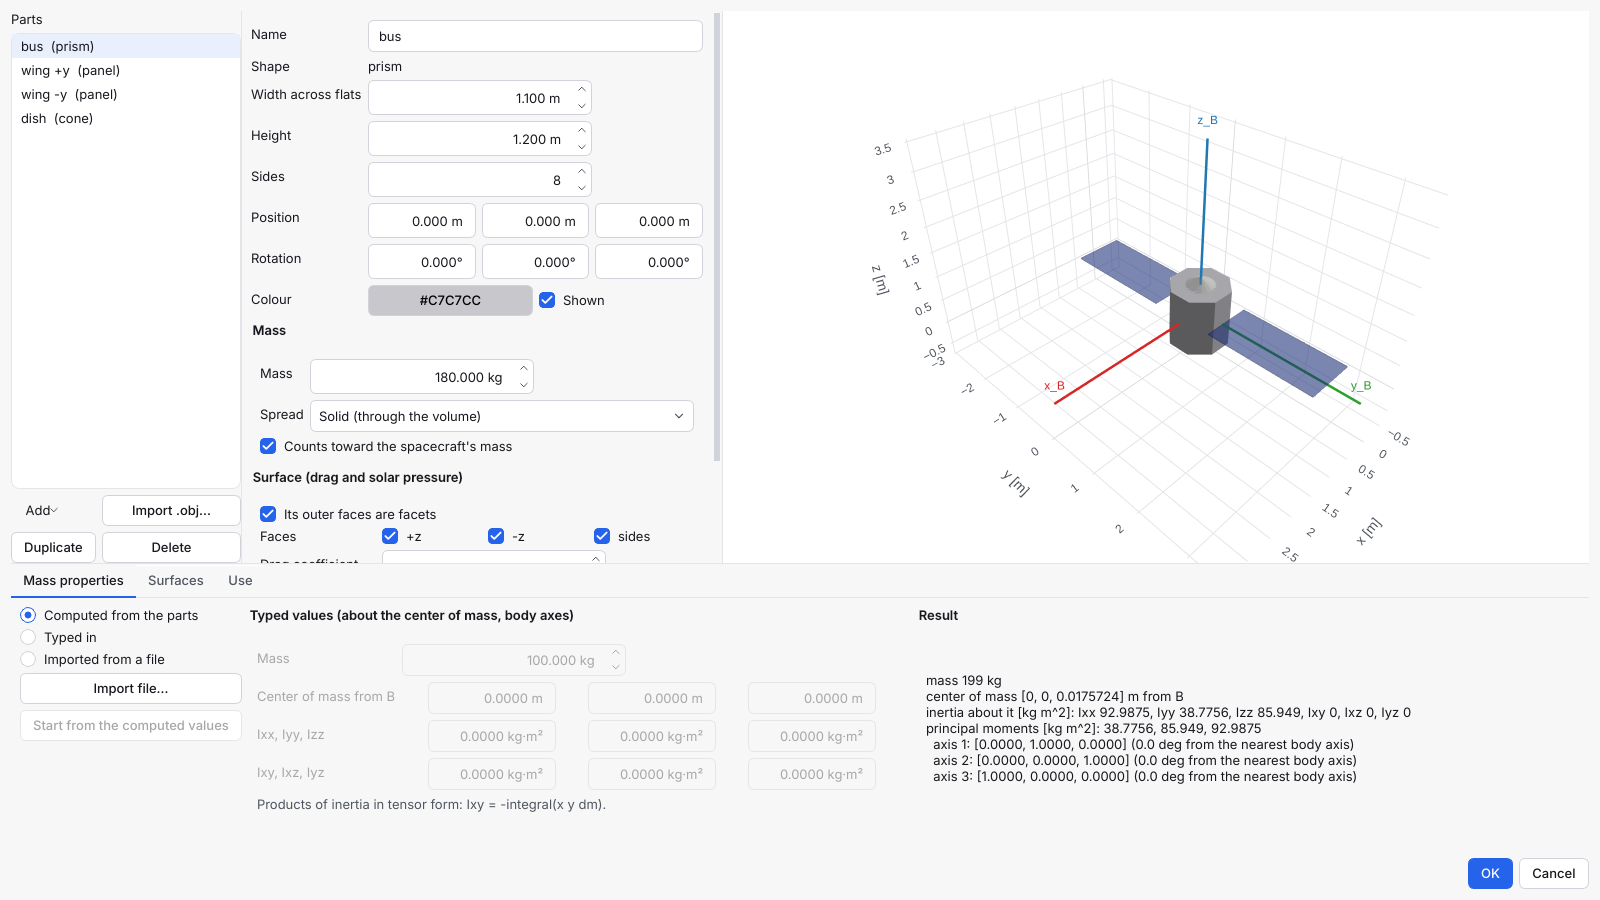
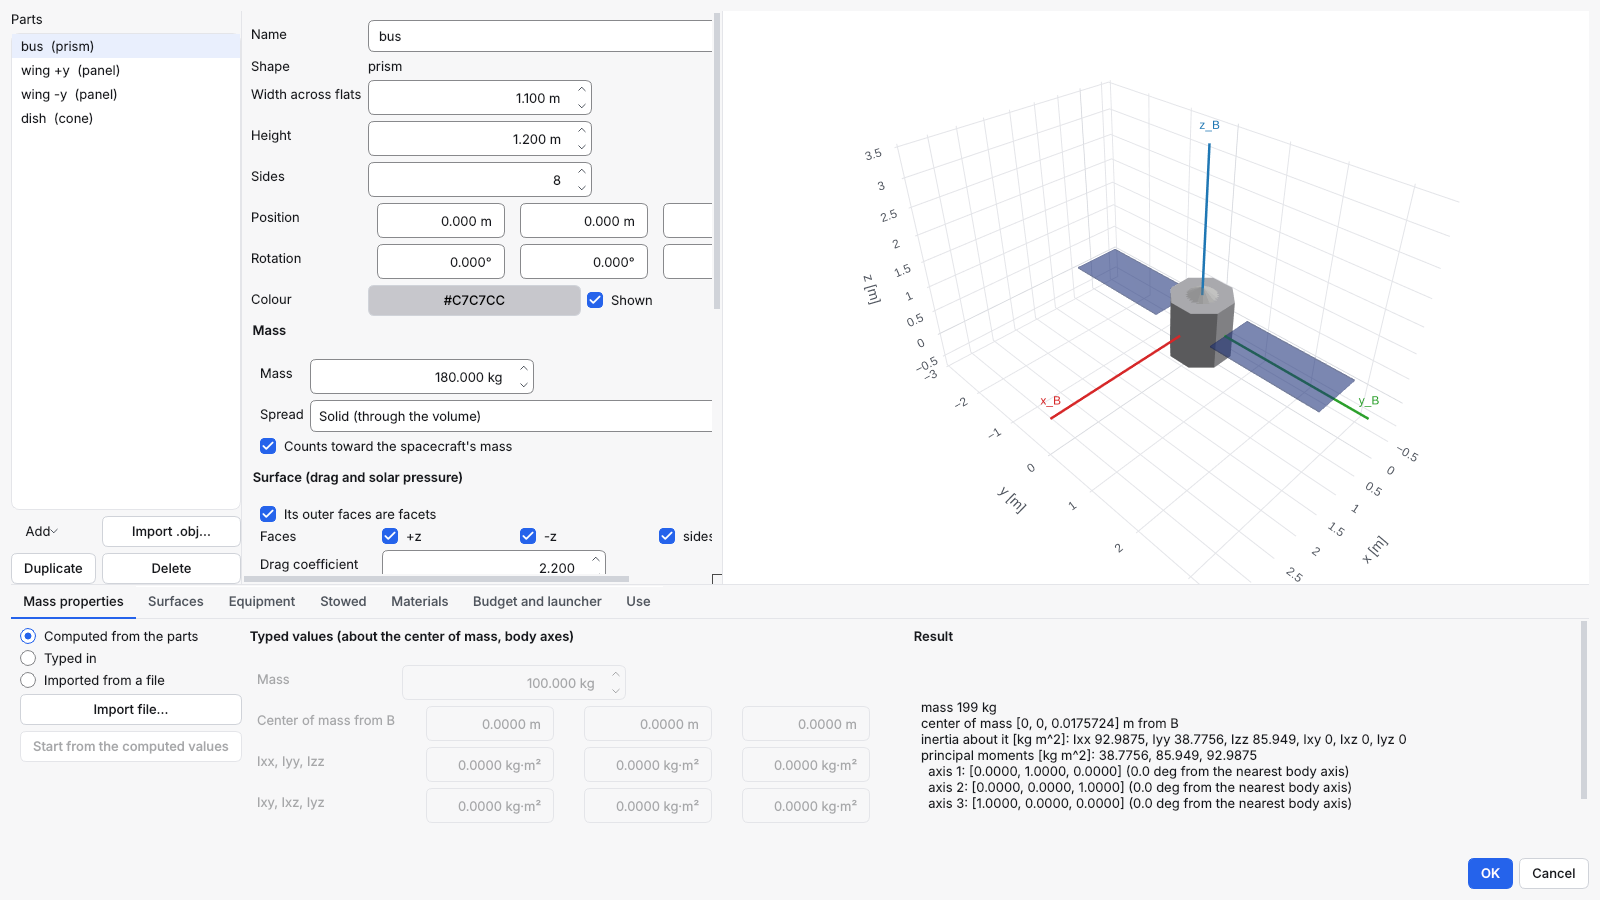
docs: the rest of the model in the 3D model editor (decision D-25)
The 3D model guide, the user manual and its help copy, the limitations
page, the CHANGELOG, the decision log and TEST_CHANGES; the editor's
screenshot re-captured with its seven tabs and the 3D view at full height.

Claude-Session: https://claude.ai/code/session_01Gh1F6B6T8MimrHtWajoX7f

diff --git a/SpaceMissionStudio/docs/developer/model-analyses-decisions.md b/SpaceMissionStudio/docs/developer/model-analyses-decisions.md
@@ -397,3 +397,32 @@ A review of the branch (PR #209) found seven points.
 - **Alternative:** a mount group in each device's own form (the sensor
   and actuator editors). It was not taken: a mount is about the model's
   geometry, and needs the parts and the view to set it well.
+
+## D-25: The rest of the model in the 3D model editor
+
+- **Chosen** (`gui/model_property_tabs.py`):
+  - **The part form** gives each part:
+    - a material (the library's, then the model's own);
+    - a maturity category of the mass budget's policy;
+    - a subsystem;
+    - per face, a material and reflection coefficients in place of
+      the part's. A blank cell keeps the part's, and a face with
+      nothing of its own has no entry.
+  - **Materials** edits the model's own materials.
+    - The erosion yield is shown in units of 1e-24 cm^3/atom, so a
+      typical value reads 3.0 rather than a long string of zeros.
+    - A rename follows the parts and faces that use the material.
+    - A material in use cannot be deleted, and a library name is
+      refused.
+  - **Budget and launcher** edits the mass budget (policy, system
+    margin, mass limit and its source) and the launcher envelope (a
+    library envelope, or a custom cylinder, box or profile, with its
+    plane, axis, limits and source). Each is a checkable group:
+    unticked, the model has none.
+- **Fixed with it:** the bottom tabs are now in scroll areas. Since
+  D-24 added the Equipment tab, the tallest tab's form squeezed the
+  parts list, the part form and the 3D view to about 150 px at
+  1600 x 900. The `model_editor.png` screenshot is re-captured with the
+  seven tabs.
+- **Result:** nothing in a model needs the JSON view any more. The
+  limitations page keeps only the empty launcher library (D-11).

diff --git a/SpaceMissionStudio/docs/user-manual/3d-model.md b/SpaceMissionStudio/docs/user-manual/3d-model.md
@@ -200,9 +200,22 @@ In the 3D model editor:
   face properties); a part that carries equipment cannot be deleted until
   the equipment is moved.
 
-Materials, face properties, the mass budget's policy and the launcher
-envelope are set in the scenario file (the Scenario's JSON view); the
-analyses of a run are chosen in the spacecraft editor's **3D model**
+- The part form also gives each part a **material** (the library's
+  sourced materials, or the model's own), a **maturity** category and a
+  **subsystem** for the mass budget, and, under **Per face**, a material
+  and reflection coefficients for one face in place of the part's (blank
+  keeps the part's).
+- **Materials** holds the model's own materials, with their values and
+  where they come from. Renaming one renames it in the parts and faces
+  that use it; one in use cannot be deleted.
+- **Budget and launcher** sets the mass budget (the margin policy, a
+  system margin in place of the policy's, the mass limit and its source)
+  and the launcher envelope the stowed configuration is checked against:
+  a cylinder, a box or a profile of heights and radii, its separation
+  plane and axis, and its mass and centre-of-mass limits with their
+  source.
+
+The analyses of a run are chosen in the spacecraft editor's **3D model**
 page.
 
 ---

diff --git a/SpaceMissionStudio/docs/ui/TEST_CHANGES.md b/SpaceMissionStudio/docs/ui/TEST_CHANGES.md
@@ -1704,3 +1704,19 @@ golden or output file changed.
   - a part rename that follows its references, and a guarded delete;
   - the spacecraft editor keeping the RF antenna's mount and taking the
     devices' mounts.
+
+## The rest of the model in the 3D model editor (2026-11-04)
+
+Branch `feature/model-editor-properties`. No test removed or changed, no
+golden or output file changed; `docs/images/model_editor.png`
+re-captured (seven tabs, the 3D view at its full height).
+
+- Added to `tests/gui/test_model_editor.py`, four tests:
+  - the part form's material, maturity and subsystem;
+  - the model's own materials: values, the erosion yield's unit, a
+    rename that follows its users, a delete refused while in use, and
+    a library name refused;
+  - a face's own properties written, with comma decimals, a value out
+    of range refused, and cleared;
+  - the mass budget and a box and a profile launcher envelope edited
+    and validated, then taken away.

diff --git a/SpaceMissionStudio/CHANGELOG.md b/SpaceMissionStudio/CHANGELOG.md
@@ -48,6 +48,12 @@ the same results as in 2.0.0.
   Renaming a part now renames it in the mounts, stowed poses and face
   properties; the spacecraft editor no longer drops the RF antenna's
   mount.
+- **The rest of the model in the 3D model editor:** a part's material,
+  maturity and subsystem and each face's own properties in the part
+  form; the model's own materials (Materials tab); the mass budget and
+  the launcher envelope (Budget and launcher tab). Nothing of the model
+  needs the JSON view any more. The bottom tabs scroll, so the 3D view
+  keeps its height.
 - **Template 32**, the 300 kg small satellite with its equipment mounted,
   showing a star tracker and a nozzle plume that see an array.
 - Parameters `analyses.observer_sun_depression_deg` and `reentry.*`, with

diff --git a/SpaceMissionStudio/USER_MANUAL.md b/SpaceMissionStudio/USER_MANUAL.md
@@ -849,7 +849,10 @@ A model problem in **Problems**, or the "3D model" badge in **Explain**,
 opens the editor for that spacecraft too. Its **Equipment** tab mounts
 items and the spacecraft's devices on the model, drawn in the view with
 their field-of-view and plume cones, and its **Stowed** tab gives parts
-their pose folded for launch and shows either configuration. Step by step:
+their pose folded for launch and shows either configuration. Its
+**Materials** and **Budget and launcher** tabs, and the part form's
+material, maturity and per-face properties, edit the rest of the model's
+data. Step by step:
 [Build a 3D model](docs/user-manual/3d-model.md); template 28 is a
 worked example.
 

diff --git a/SpaceMissionStudio/spacemissionstudio/help/USER_MANUAL.md b/SpaceMissionStudio/spacemissionstudio/help/USER_MANUAL.md
@@ -849,7 +849,10 @@ A model problem in **Problems**, or the "3D model" badge in **Explain**,
 opens the editor for that spacecraft too. Its **Equipment** tab mounts
 items and the spacecraft's devices on the model, drawn in the view with
 their field-of-view and plume cones, and its **Stowed** tab gives parts
-their pose folded for launch and shows either configuration. Step by step:
+their pose folded for launch and shows either configuration. Its
+**Materials** and **Budget and launcher** tabs, and the part form's
+material, maturity and per-face properties, edit the rest of the model's
+data. Step by step:
 [Build a 3D model](docs/user-manual/3d-model.md); template 28 is a
 worked example.
 

diff --git a/SpaceMissionStudio/docs/reference/limitations.md b/SpaceMissionStudio/docs/reference/limitations.md
@@ -223,10 +223,8 @@ Each item was checked against Basilisk's own source.
     [the method](../models/reentry.md).
   * Star-tracker Sun, Earth and Moon exclusion angles have no default:
     no datasheet could be read (D-12).
-  * The 3D model editor edits the equipment and the stowed
-    configuration and draws the fields of view and plume cones (D-24);
-    materials, face properties, the mass budget's policy and the launcher
-    envelope are still set in the scenario file (the JSON view).
+  * The launcher envelope library is empty (D-11): the 3D model
+    editor's Budget and launcher tab takes the user's own envelope.
 
 ## Planned, not yet built
 
